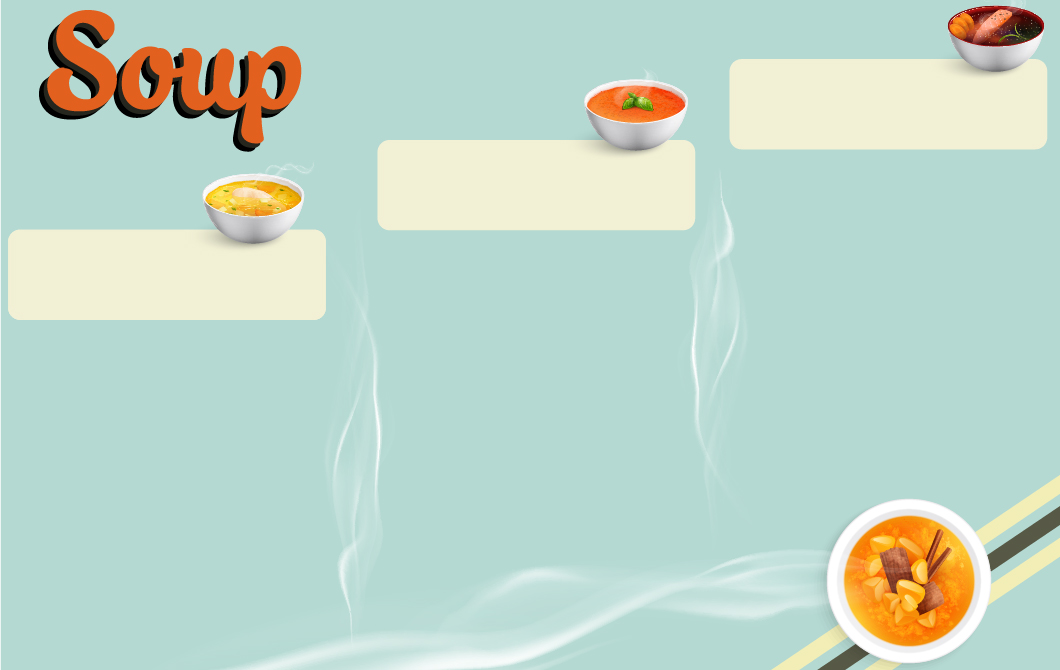
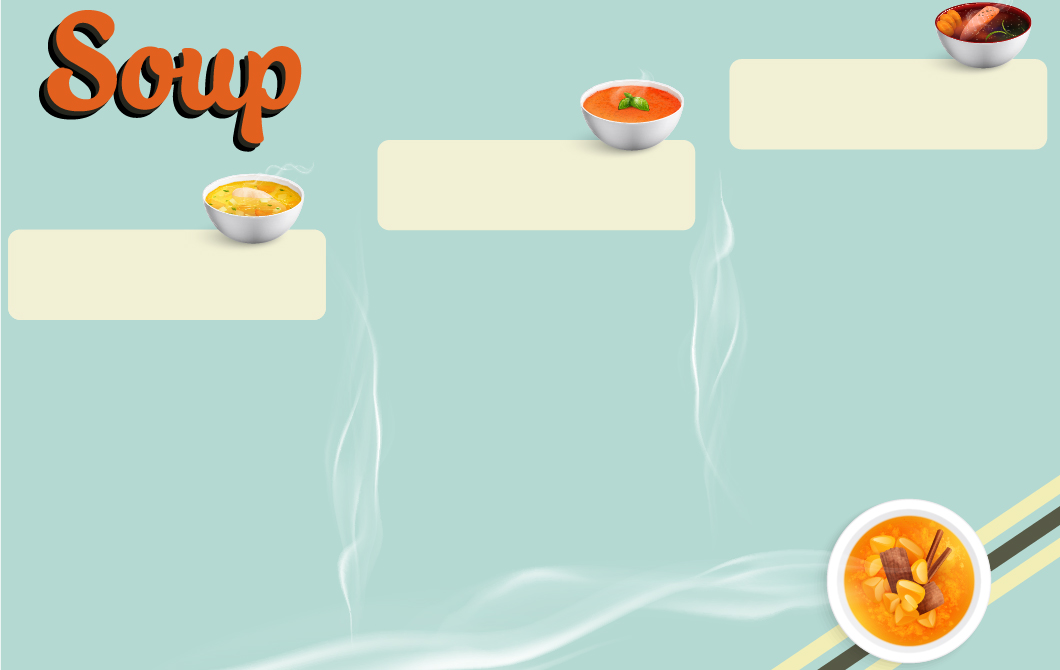
d sua gi het nhung van bat commit

Changed region(s): [[0.8717, 0.0, 0.9962, 0.1194], [0.5292, 0.1194, 0.6538, 0.209]]

diff --git a/Server/Server/MainWindow.xaml b/Server/Server/MainWindow.xaml
@@ -22,8 +22,8 @@
                                     <Grid>
                                         <Ellipse x:Name="Elipse1" Fill="{TemplateBinding Background}" >
                                             <Ellipse.Effect>
-                                                <DropShadowEffect BlurRadius="15" ShadowDepth="10" >
-
+                                                <DropShadowEffect BlurRadius="0" ShadowDepth="10" >
+                                                  
                                                 </DropShadowEffect>
                                             </Ellipse.Effect>
                                         </Ellipse>

diff --git a/ClientUI/ClientUI/Client.cs b/ClientUI/ClientUI/Client.cs
@@ -73,11 +73,11 @@ namespace Client
 
         public void recvPic()
         {
-           
+
             int n = Int32.Parse(sr.ReadLine());         //Reveice size of image
-            MessageBox.Show(n.ToString());
+
             byte[] buffer = new byte[n];
-            
+
             stream.Read(buffer, 0, n);
 
             try
@@ -89,34 +89,29 @@ namespace Client
                     {
                         if (File.Exists(@".\image.jpg")) File.Delete(@".\image.jpg");
                     }
-                    catch { 
-                    }
-                here:;
-                    try
-                    {
-                        img.Save(@".\image.jpg", System.Drawing.Imaging.ImageFormat.Jpeg);
-                    }
                     catch
                     {
-                        goto here;
                     }
+
+
+                    img.Save(@".\image.jpg", System.Drawing.Imaging.ImageFormat.Jpeg);
                     img.Dispose();
                 }
-                
+
 
             }
             catch (Exception ex)
             {
                 MessageBox.Show(ex.Message);
             }
-            
+
 
         }
 
 
         public List<string> recvList()
         {
-            List <string> list = new List<string>();
+            List<string> list = new List<string>();
 
             return list;
         }

diff --git a/ClientUI/ClientUI/obj/Debug/net6.0-windows/ClientUI_0daqoy45_wpftmp.AssemblyInfo.cs b/ClientUI/ClientUI/obj/Debug/net6.0-windows/ClientUI_0daqoy45_wpftmp.AssemblyInfo.cs
@@ -1,0 +1,25 @@
+//------------------------------------------------------------------------------
+// <auto-generated>
+//     This code was generated by a tool.
+//     Runtime Version:4.0.30319.42000
+//
+//     Changes to this file may cause incorrect behavior and will be lost if
+//     the code is regenerated.
+// </auto-generated>
+//------------------------------------------------------------------------------
+
+using System;
+using System.Reflection;
+
+[assembly: System.Reflection.AssemblyCompanyAttribute("ClientUI")]
+[assembly: System.Reflection.AssemblyConfigurationAttribute("Debug")]
+[assembly: System.Reflection.AssemblyFileVersionAttribute("1.0.0.0")]
+[assembly: System.Reflection.AssemblyInformationalVersionAttribute("1.0.0")]
+[assembly: System.Reflection.AssemblyProductAttribute("ClientUI")]
+[assembly: System.Reflection.AssemblyTitleAttribute("ClientUI")]
+[assembly: System.Reflection.AssemblyVersionAttribute("1.0.0.0")]
+[assembly: System.Runtime.Versioning.TargetPlatformAttribute("Windows7.0")]
+[assembly: System.Runtime.Versioning.SupportedOSPlatformAttribute("Windows7.0")]
+
+// Generated by the MSBuild WriteCodeFragment class.
+

diff --git a/ClientUI/ClientUI/obj/Debug/net6.0-windows/ClientUI_1c52tuib_wpftmp.AssemblyInfo.cs b/ClientUI/ClientUI/obj/Debug/net6.0-windows/ClientUI_1c52tuib_wpftmp.AssemblyInfo.cs
@@ -1,0 +1,25 @@
+//------------------------------------------------------------------------------
+// <auto-generated>
+//     This code was generated by a tool.
+//     Runtime Version:4.0.30319.42000
+//
+//     Changes to this file may cause incorrect behavior and will be lost if
+//     the code is regenerated.
+// </auto-generated>
+//------------------------------------------------------------------------------
+
+using System;
+using System.Reflection;
+
+[assembly: System.Reflection.AssemblyCompanyAttribute("ClientUI")]
+[assembly: System.Reflection.AssemblyConfigurationAttribute("Debug")]
+[assembly: System.Reflection.AssemblyFileVersionAttribute("1.0.0.0")]
+[assembly: System.Reflection.AssemblyInformationalVersionAttribute("1.0.0")]
+[assembly: System.Reflection.AssemblyProductAttribute("ClientUI")]
+[assembly: System.Reflection.AssemblyTitleAttribute("ClientUI")]
+[assembly: System.Reflection.AssemblyVersionAttribute("1.0.0.0")]
+[assembly: System.Runtime.Versioning.TargetPlatformAttribute("Windows7.0")]
+[assembly: System.Runtime.Versioning.SupportedOSPlatformAttribute("Windows7.0")]
+
+// Generated by the MSBuild WriteCodeFragment class.
+

diff --git a/ClientUI/ClientUI/obj/Debug/net6.0-windows/ClientUI_csrvypmq_wpftmp.AssemblyInfo.cs b/ClientUI/ClientUI/obj/Debug/net6.0-windows/ClientUI_csrvypmq_wpftmp.AssemblyInfo.cs
@@ -1,0 +1,25 @@
+//------------------------------------------------------------------------------
+// <auto-generated>
+//     This code was generated by a tool.
+//     Runtime Version:4.0.30319.42000
+//
+//     Changes to this file may cause incorrect behavior and will be lost if
+//     the code is regenerated.
+// </auto-generated>
+//------------------------------------------------------------------------------
+
+using System;
+using System.Reflection;
+
+[assembly: System.Reflection.AssemblyCompanyAttribute("ClientUI")]
+[assembly: System.Reflection.AssemblyConfigurationAttribute("Debug")]
+[assembly: System.Reflection.AssemblyFileVersionAttribute("1.0.0.0")]
+[assembly: System.Reflection.AssemblyInformationalVersionAttribute("1.0.0")]
+[assembly: System.Reflection.AssemblyProductAttribute("ClientUI")]
+[assembly: System.Reflection.AssemblyTitleAttribute("ClientUI")]
+[assembly: System.Reflection.AssemblyVersionAttribute("1.0.0.0")]
+[assembly: System.Runtime.Versioning.TargetPlatformAttribute("Windows7.0")]
+[assembly: System.Runtime.Versioning.SupportedOSPlatformAttribute("Windows7.0")]
+
+// Generated by the MSBuild WriteCodeFragment class.
+

diff --git a/ClientUI/ClientUI/obj/Debug/net6.0-windows/ClientUI_tofzovt3_wpftmp.AssemblyInfo.cs b/ClientUI/ClientUI/obj/Debug/net6.0-windows/ClientUI_tofzovt3_wpftmp.AssemblyInfo.cs
@@ -1,0 +1,25 @@
+//------------------------------------------------------------------------------
+// <auto-generated>
+//     This code was generated by a tool.
+//     Runtime Version:4.0.30319.42000
+//
+//     Changes to this file may cause incorrect behavior and will be lost if
+//     the code is regenerated.
+// </auto-generated>
+//------------------------------------------------------------------------------
+
+using System;
+using System.Reflection;
+
+[assembly: System.Reflection.AssemblyCompanyAttribute("ClientUI")]
+[assembly: System.Reflection.AssemblyConfigurationAttribute("Debug")]
+[assembly: System.Reflection.AssemblyFileVersionAttribute("1.0.0.0")]
+[assembly: System.Reflection.AssemblyInformationalVersionAttribute("1.0.0")]
+[assembly: System.Reflection.AssemblyProductAttribute("ClientUI")]
+[assembly: System.Reflection.AssemblyTitleAttribute("ClientUI")]
+[assembly: System.Reflection.AssemblyVersionAttribute("1.0.0.0")]
+[assembly: System.Runtime.Versioning.TargetPlatformAttribute("Windows7.0")]
+[assembly: System.Runtime.Versioning.SupportedOSPlatformAttribute("Windows7.0")]
+
+// Generated by the MSBuild WriteCodeFragment class.
+

diff --git a/ClientUI/ClientUI/obj/Debug/net6.0-windows/ClientUI_tsh4jh1c_wpftmp.AssemblyInfo.cs b/ClientUI/ClientUI/obj/Debug/net6.0-windows/ClientUI_tsh4jh1c_wpftmp.AssemblyInfo.cs
@@ -1,0 +1,25 @@
+//------------------------------------------------------------------------------
+// <auto-generated>
+//     This code was generated by a tool.
+//     Runtime Version:4.0.30319.42000
+//
+//     Changes to this file may cause incorrect behavior and will be lost if
+//     the code is regenerated.
+// </auto-generated>
+//------------------------------------------------------------------------------
+
+using System;
+using System.Reflection;
+
+[assembly: System.Reflection.AssemblyCompanyAttribute("ClientUI")]
+[assembly: System.Reflection.AssemblyConfigurationAttribute("Debug")]
+[assembly: System.Reflection.AssemblyFileVersionAttribute("1.0.0.0")]
+[assembly: System.Reflection.AssemblyInformationalVersionAttribute("1.0.0")]
+[assembly: System.Reflection.AssemblyProductAttribute("ClientUI")]
+[assembly: System.Reflection.AssemblyTitleAttribute("ClientUI")]
+[assembly: System.Reflection.AssemblyVersionAttribute("1.0.0.0")]
+[assembly: System.Runtime.Versioning.TargetPlatformAttribute("Windows7.0")]
+[assembly: System.Runtime.Versioning.SupportedOSPlatformAttribute("Windows7.0")]
+
+// Generated by the MSBuild WriteCodeFragment class.
+

diff --git a/Server/Server/obj/Debug/net6.0-windows/Server_a2eaontk_wpftmp.AssemblyInfo.cs b/Server/Server/obj/Debug/net6.0-windows/Server_a2eaontk_wpftmp.AssemblyInfo.cs
@@ -1,0 +1,25 @@
+//------------------------------------------------------------------------------
+// <auto-generated>
+//     This code was generated by a tool.
+//     Runtime Version:4.0.30319.42000
+//
+//     Changes to this file may cause incorrect behavior and will be lost if
+//     the code is regenerated.
+// </auto-generated>
+//------------------------------------------------------------------------------
+
+using System;
+using System.Reflection;
+
+[assembly: System.Reflection.AssemblyCompanyAttribute("Server")]
+[assembly: System.Reflection.AssemblyConfigurationAttribute("Debug")]
+[assembly: System.Reflection.AssemblyFileVersionAttribute("1.0.0.0")]
+[assembly: System.Reflection.AssemblyInformationalVersionAttribute("1.0.0")]
+[assembly: System.Reflection.AssemblyProductAttribute("Server")]
+[assembly: System.Reflection.AssemblyTitleAttribute("Server")]
+[assembly: System.Reflection.AssemblyVersionAttribute("1.0.0.0")]
+[assembly: System.Runtime.Versioning.TargetPlatformAttribute("Windows7.0")]
+[assembly: System.Runtime.Versioning.SupportedOSPlatformAttribute("Windows7.0")]
+
+// Generated by the MSBuild WriteCodeFragment class.
+

diff --git a/Server/Server/obj/Debug/net6.0-windows/MainWindow.g.cs b/Server/Server/obj/Debug/net6.0-windows/MainWindow.g.cs
@@ -1,4 +1,4 @@
-#pragma checksum "..\..\..\MainWindow.xaml" "{ff1816ec-aa5e-4d10-87f7-6f4963833460}" "67DA7BA00373C1BFFC7B603C0992E86E5E053461"
+#pragma checksum "..\..\..\MainWindow.xaml" "{ff1816ec-aa5e-4d10-87f7-6f4963833460}" "A58C326BC919862CB2CAF22EAF71FCF9E7854722"
 //------------------------------------------------------------------------------
 // <auto-generated>
 //     This code was generated by a tool.

diff --git a/Server/Server/obj/Debug/net6.0-windows/MainWindow.g.i.cs b/Server/Server/obj/Debug/net6.0-windows/MainWindow.g.i.cs
@@ -1,4 +1,4 @@
-#pragma checksum "..\..\..\MainWindow.xaml" "{ff1816ec-aa5e-4d10-87f7-6f4963833460}" "67DA7BA00373C1BFFC7B603C0992E86E5E053461"
+#pragma checksum "..\..\..\MainWindow.xaml" "{ff1816ec-aa5e-4d10-87f7-6f4963833460}" "A58C326BC919862CB2CAF22EAF71FCF9E7854722"
 //------------------------------------------------------------------------------
 // <auto-generated>
 //     This code was generated by a tool.
